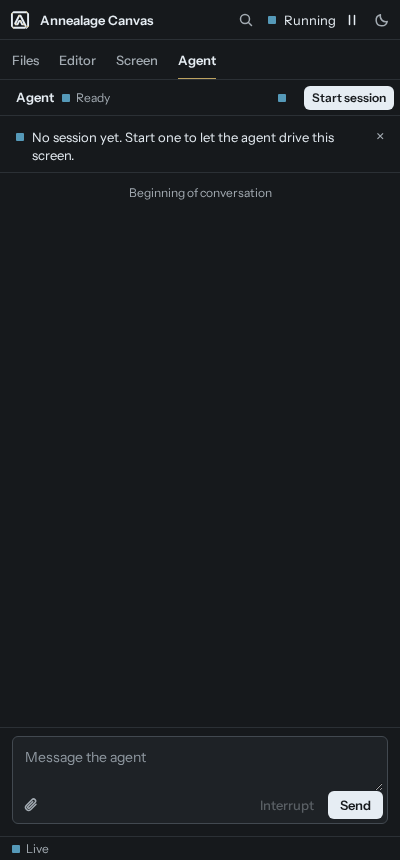
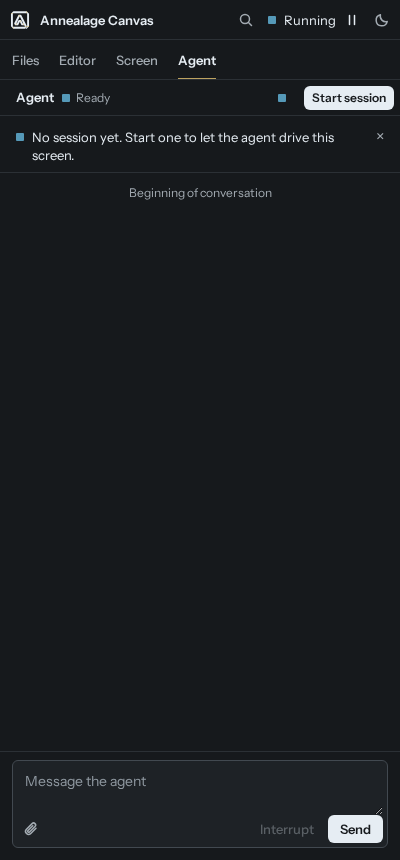
Phone status bar: ellipsis and 24px hit area on the alert, lamp-only connection, hidden on the Agent tab

Changed region(s): [[0.03, 0.8767, 0.36, 0.9977], [0.81, 0.907, 0.96, 0.9977], [0.66, 0.9372, 0.78, 0.9674]]

diff --git a/frame.js b/frame.js
@@ -20,6 +20,8 @@
 //   [data-panel-close]                       closes the panel
 //   #tabbar                                  the phone tab bar, role="tablist"
 //     button[data-tab="id"][data-target="selector"]   one tab per pane (aria-selected)
+//   .statusbar .alert                        the approval alert: a click shows the Agent tab at 900px and below
+//   .wb[data-agent-open]                     set by frame.js while the Agent tab is showing (the status bar hides)
 //   .split.even > .half + .half              a view split in two halves with a handle between them
 //
 // Settings, kept in localStorage per origin and per product (<html data-product>,
@@ -220,10 +222,15 @@
         b.setAttribute("aria-selected", String(b.getAttribute("data-tab") === active));
       });
       var narrow = isNarrow();
+      var chat = doc.querySelector("#chat");
+      var agentOpen = false;
       tabs.forEach(function (t) {
         var el = t.target ? doc.querySelector(t.target) : null;
         if (el) el.style.display = narrow && t.id !== active ? "none" : "";
+        if (el && el === chat && narrow && t.id === active) agentOpen = true;
       });
+      if (agentOpen) root.setAttribute("data-agent-open", "");
+      else root.removeAttribute("data-agent-open");
     }
     function activateTab(id) {
       if (!tabs.some(function (t) { return t.id === id; })) return;

diff --git a/theme.css b/theme.css
@@ -1864,7 +1864,15 @@ html .pj-modal {
      reachable from any pane. Everything else in it is dropped. */
   .wb > .statusbar > :not(.conn, .alert) { display: none; }
   .wb > .statusbar { gap: 12px; }
-  .wb > .statusbar .alert { margin-left: auto; min-width: 0; overflow: hidden; text-overflow: ellipsis; }
+  /* The connection is its lamp alone here (the word is still there for a screen
+     reader), so a view's own "Live" is not repeated. */
+  .wb > .statusbar .conn { font-size: 0; }
+  /* A block, not a flex box, so a long label ends in an ellipsis. The element is
+     24px high (the tap target) with the 18px chamfered fill inset inside it. */
+  .wb > .statusbar .alert { display: block; margin-left: auto; min-width: 0; max-width: 100%; height: var(--h-status); padding-block: 3px; line-height: 18px; overflow: hidden; text-overflow: ellipsis; }
+  .wb > .statusbar .alert::before { inset: 3px 0; }
+  /* On the Agent tab the pane shows the connection and the approval itself. */
+  .wb[data-agent-open] > .statusbar { display: none; }
   .titlebar:has(> .tb-left) { grid-template-columns: minmax(0, 1fr) auto; gap: 8px; }
   .titlebar:has(> .tb-left):has(> .cmd) { grid-template-columns: minmax(0, 1fr) auto auto; }
   .tb-left { min-width: 0; }
